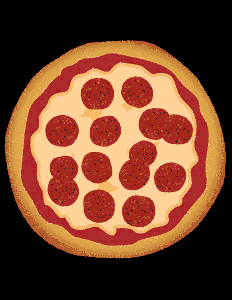
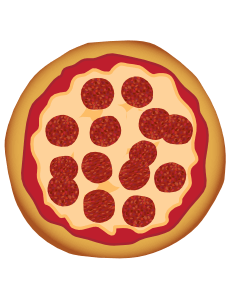
P4 submit-9 parts2 & 3 optimizations and a new pizza.png

diff --git a/mobile-portfolio/views/js/main.js b/mobile-portfolio/views/js/main.js
@@ -1,23 +1,3 @@
-/*
-Welcome to the 60fps project! Your goal is to make Cam's Pizzeria website run
-jank-free at 60 frames per second.
-
-There are two major issues in this code that lead to sub-60fps performance. Can
-you spot and fix both?
-
-
-Built into the code, you'll find a few instances of the User Timing API
-(window.performance), which will be console.log()ing frame rate data into the
-browser console. To learn more about User Timing API, check out:
-http://www.html5rocks.com/en/tutorials/webperformance/usertiming/
-
-Creator:
-Cameron Pittman, Udacity Course Developer
-cameron *at* udacity *dot* com
-*/
-
-// As you may have realized, this website randomly generates pizzas.
-// Here are arrays of all possible pizza ingredients.
 var pizzaIngredients = {};
 pizzaIngredients.meats = [
   "Pepperoni",
@@ -400,6 +380,8 @@ var pizzaElementGenerator = function(i) {
 
 // resizePizzas(size) is called when the slider in the "Our Pizzas" section of the website moves.
 var resizePizzas = function(size) { 
+//P4 comment: find Window width
+  var ww = document.querySelector("#randomPizzas").offsetWidth;
   window.performance.mark("mark_start_resize");   // User Timing API function
 
   // Changes the value for the size of the pizza above the slider
@@ -422,10 +404,13 @@ var resizePizzas = function(size) {
   changeSliderLabel(size);
 
   // Returns the size difference to change a pizza element from one size to another. Called by changePizzaSlices(size).
-  function determineDx (elem, size) {
-    var oldwidth = elem.offsetWidth;
-    var windowwidth = document.querySelector("#randomPizzas").offsetWidth;
-    var oldsize = oldwidth / windowwidth;
+//P4 comment: changed determineDx to take oldwidth, size
+  function determineDx (elemOW, size) {
+  //function determineDx (elem, size) {
+    //var oldwidth = elemOW;
+    //var windowwidth = ww;
+//P4 comment: elemOW is oldwidth passed in func, ww is windowwidth 
+    var oldsize = elemOW / ww;
 
     // TODO: change to 3 sizes? no more xl?
     // Changes the slider value to a percent width
@@ -443,17 +428,24 @@ var resizePizzas = function(size) {
     }
 
     var newsize = sizeSwitcher(size);
-    var dx = (newsize - oldsize) * windowwidth;
-
+    var dx = (newsize - oldsize) * ww;
     return dx;
   }
 
   // Iterates through pizza elements on the page and changes their widths
   function changePizzaSizes(size) {
-    for (var i = 0; i < document.querySelectorAll(".randomPizzaContainer").length; i++) {
-      var dx = determineDx(document.querySelectorAll(".randomPizzaContainer")[i], size);
-      var newwidth = (document.querySelectorAll(".randomPizzaContainer")[i].offsetWidth + dx) + 'px';
-      document.querySelectorAll(".randomPizzaContainer")[i].style.width = newwidth;
+//P4 comment: create the NodeList outside of the for loop for performance reasons
+    var qList = document.getElementsByClassName("randomPizzaContainer");
+//P4 comment: get offsetWidth for 1 element instead of for all
+    var elemOW = qList[0].offsetWidth;
+//P4 comment: calculate dx, newwidth only once
+//P4 comment: qList[i].offetWidth is elemOW
+    var dx = determineDx(elemOW, size);
+    var newwidth = (elemOW + dx) + 'px';
+    for (var i = 0; i < qList.length; i++) {    
+      //var dx = determineDx(qList[i], size);
+      //var newwidth = (qList[i].offsetWidth + dx) + 'px';
+      qList[i].style.width = newwidth;
     }
   }
 
@@ -465,12 +457,14 @@ var resizePizzas = function(size) {
   var timeToResize = window.performance.getEntriesByName("measure_pizza_resize");
   console.log("Time to resize pizzas: " + timeToResize[0].duration + "ms");
 };
-
+//*******************
 window.performance.mark("mark_start_generating"); // collect timing data
 
 // This for-loop actually creates and appends all of the pizzas when the page loads
-for (var i = 2; i < 100; i++) {
-  var pizzasDiv = document.getElementById("randomPizzas");
+//P4 comment: Take pizzasDiv out of the for loop
+var pizzasDiv = document.getElementById("randomPizzas");
+for (var i = 2; i < 25; i++) {
+  //var pizzasDiv = document.getElementById("randomPizzas");
   pizzasDiv.appendChild(pizzaElementGenerator(i));
 }
 
@@ -482,7 +476,12 @@ console.log("Time to generate pizzas on load: " + timeToGenerate[0].duration + "
 
 // Iterator for number of times the pizzas in the background have scrolled.
 // Used by updatePositions() to decide when to log the average time per frame
+
+//P4 comment: Define fakescrolltop variable where frame var is defined.
 var frame = 0;
+var fakescrolltop = 0
+var lastScrollY = 0;
+var ticking = false;
 
 // Logs the average amount of time per 10 frames needed to move the sliding background pizzas on scroll.
 function logAverageFrame(times) {   // times is the array of User Timing measurements from updatePositions()
@@ -494,46 +493,79 @@ function logAverageFrame(times) {   // times is the array of User Timing measure
   console.log("Average time to generate last 10 frames: " + sum / 10 + "ms");
 }
 
-// The following code for sliding background pizzas was pulled from Ilya's demo found at:
-// https://www.igvita.com/slides/2012/devtools-tips-and-tricks/jank-demo.html
+function onScroll() {
+  lastScrollY = window.scrollY;
+  if (!ticking) {
+    requestAnimationFrame(updatePositions);
+    ticking = true;
+  }
+}
 
 // Moves the sliding background pizzas based on scroll position
+
 function updatePositions() {
+//P4 comment: movrTop will hold the mover objects' offsetTop values
+  var movrTop = [];
+  var halfWindowHeight = window.innerHeight * 0.5;
+
   frame++;
+  fakescrolltop = (frame - 1) * 31;
+  //lastScrollY = window.scrollY;
   window.performance.mark("mark_start_frame");
 
-  var items = document.querySelectorAll('.mover');
+//P4 comment: Instead of using querySelectorAll, use getElementsByClassName
+  var items = document.getElementsByClassName("mover");
+  //var items = document.querySelectorAll('.mover');
+
+  for (var m = 0; m < items.length; m++) {
+    //movr = items[m];
+    movrTop[m] = items[m].offsetTop;
+  }
+  
   for (var i = 0; i < items.length; i++) {
-    var phase = Math.sin((document.body.scrollTop / 1250) + (i % 5));
-    items[i].style.left = items[i].basicLeft + 100 * phase + 'px';
+//P4 comment: Instead of using document.body.scrollTop property which forces Layout, use a fake value
+//P4 comment: perform style.left & re-layout only if the pizza is 
+//in view relative to current scrollposition
+    if (lastScrollY > movrTop[i] - halfWindowHeight) {
+      var phase = Math.sin((fakescrolltop / 1250) + (i % 5));
+      //var phase = Math.sin((document.body.scrollTop / 1250) + (i % 5));
+      items[i].style.left = items[i].basicLeft + 100 * phase + 'px';
+    }
   }
 
   // User Timing API to the rescue again. Seriously, it's worth learning.
-  // Super easy to create custom metrics.
   window.performance.mark("mark_end_frame");
   window.performance.measure("measure_frame_duration", "mark_start_frame", "mark_end_frame");
   if (frame % 10 === 0) {
     var timesToUpdatePosition = window.performance.getEntriesByName("measure_frame_duration");
     logAverageFrame(timesToUpdatePosition);
   }
+  ticking = false;
 }
 
-// runs updatePositions on scroll
-window.addEventListener('scroll', updatePositions);
+//P4 comment: runs onScroll on scroll
+window.addEventListener('scroll', onScroll);
+//window.addEventListener('scroll', updatePositions);
 
 // Generates the sliding pizzas when the page loads.
 document.addEventListener('DOMContentLoaded', function() {
   var cols = 8;
-  var s = 256;
-  for (var i = 0; i < 200; i++) {
+  var s = 256; 
+  
+//P4 comment: Reduced background pizzas from 200 to 35  
+  for (var i = 0; i < 25; i++) {
     var elem = document.createElement('img');
     elem.className = 'mover';
     elem.src = "images/pizza.png";
-    elem.style.height = "100px";
-    elem.style.width = "73.333px";
+//P4 comment: moved dimensions to CSS in pizza.html .mover class
+//P4 comment: also using backface-visibility:hidden; in CSS 
+    /*elem.style.height = "100px";
+    elem.style.width = "73.333px";*/
     elem.basicLeft = (i % cols) * s;
     elem.style.top = (Math.floor(i / cols) * s) + 'px';
     document.querySelector("#movingPizzas1").appendChild(elem);
   }
-  updatePositions();
+//P4 comment: call updatePositions via requestAnimationFrame() method
+//from onScroll function
+  requestAnimationFrame(updatePositions);
 });

diff --git a/mobile-portfolio/views/pizza.html b/mobile-portfolio/views/pizza.html
@@ -1,7 +1,8 @@
 <!DOCTYPE HTML>
 <html>
 <head>  
-  <link rel="stylesheet" href="css/style.css">
+  <style>* {-webkit-box-sizing:border-box;-moz-box-sizing:border-box;-box-sizing:border-box;} body {font-family:"Trebuchet MS", Helvetica, sans-serif; background:#000;} input {background:grey;font-size:18px;} form {display:inline-block;} .centered {text-align:center;} #pizzaSize {font-weight:800;} .mover {position:fixed;width:73.333px;height:100px;backface-visibility:hidden;z-index:-1;} 
+   .randomPizzaContainer {float:left;display:flex;} .randomPizzaContainer:after {content:"";display:table;clear:both;}.container {background-color:rgba(240,60,60,0.8);}</style>
   <link rel="stylesheet" href="css/bootstrap-grid.css">
 </head>
 

diff --git a/mobile-portfolio/README.md b/mobile-portfolio/README.md
@@ -1,13 +1,33 @@
-## Website Performance Optimization portfolio project
-Part1: Analyze the following website on pagespeed insights: https://developers.google.com/speed/pagespeed/insights/
+## Website Performance Optimization portfolio project##
+#######################################################
+Part 1: 
+Analyze the following website on pagespeed insights: https://developers.google.com/speed/pagespeed/insights/
 
 WEBSITE: http://saran689.github.io/mobile-portfolio/
 
 Other sites used:
-To optimize images: http://www.freshpixels.net/upload.php
+To optimize images: 
+https://tinypng.com/
+http://www.freshpixels.net
 
-Part2: 
-In views/js/main.js, comments such as "P4 comment:" indicate where the code changes for Efficiency were made.
+
+Parts 2 & 3: 
+In views/js/main.js, search for "P4 comment:" This indicates where the code changes for Efficiency were made.
+
+Changes/comments to main.js & pizza.html briefly:
+1. Inline-d the style.css into pizza.html
+2. Added backface-visibility:hidden to .mover class CSS
+3. Reduced number of moving pizzas from 200 to 35.
+4. Made requestAnimationFrame calls to updatePostions function.
+5. requestAnimationFrame(updatePositions) is called if the items[i] object is within 
+   the viewing window Height.
+6. movrTop[] stores all the values of offsetTop for the items in the mover class.
+7. If lastScrollY > movrTop[i] - halfwindowheight, then style.left will be performed.
+8. Replaced querySelectorAll with getElementsByClassName.
+9. Instead of using document.body.scrollTop which forces re-flow and re-layout, I used 
+   a fakeScrollTop which I calculate using the frame count (frame - 1)*31. 
+10. All computations, assignments that can be brought out of the for loops are brought out.
+11. All changes were tested using Dev Tools locally, before uploading to github.io repo
 ***************************************
 ORIGINAL UDACITY REQUIREMENTS/ RUBRIC:*
 ***************************************
